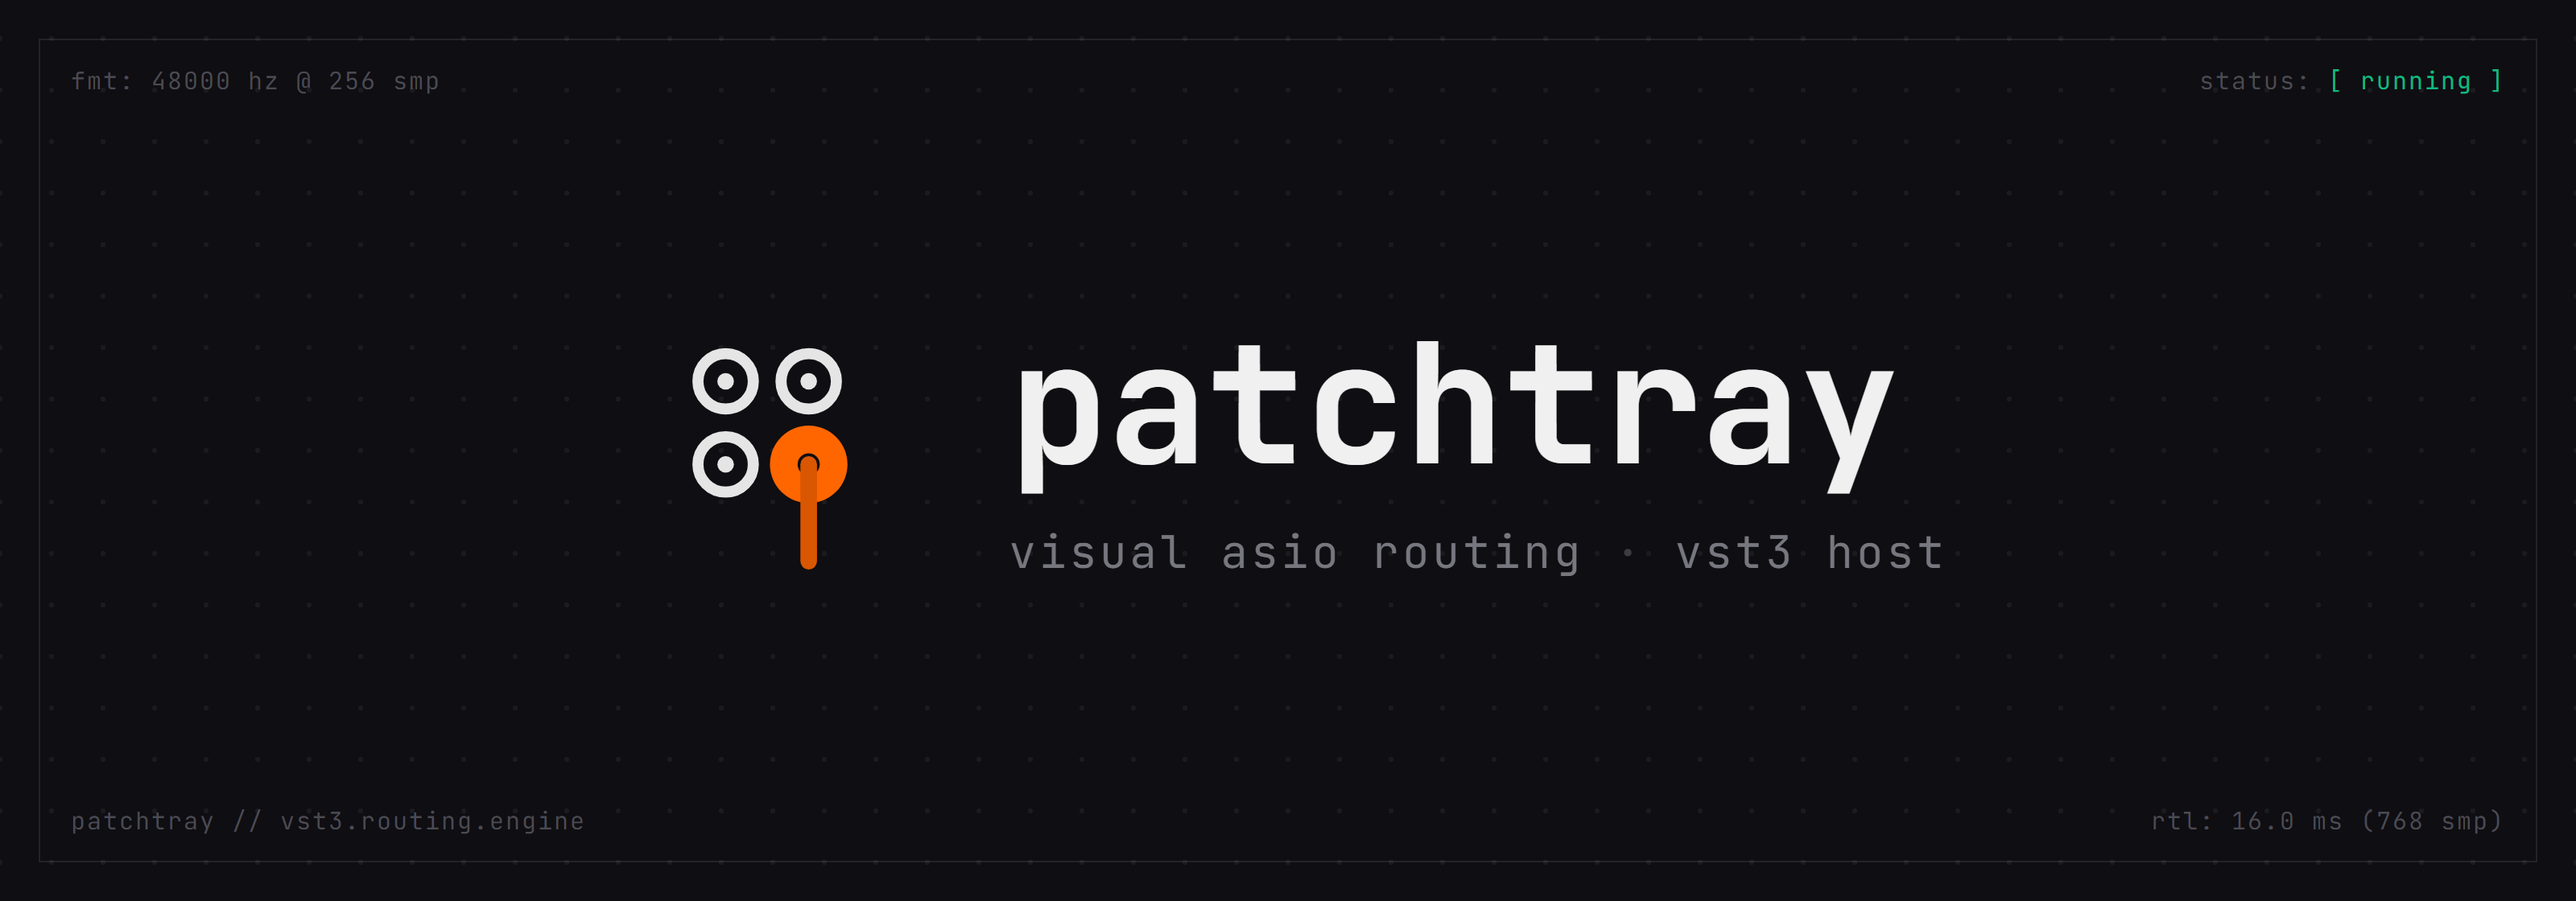
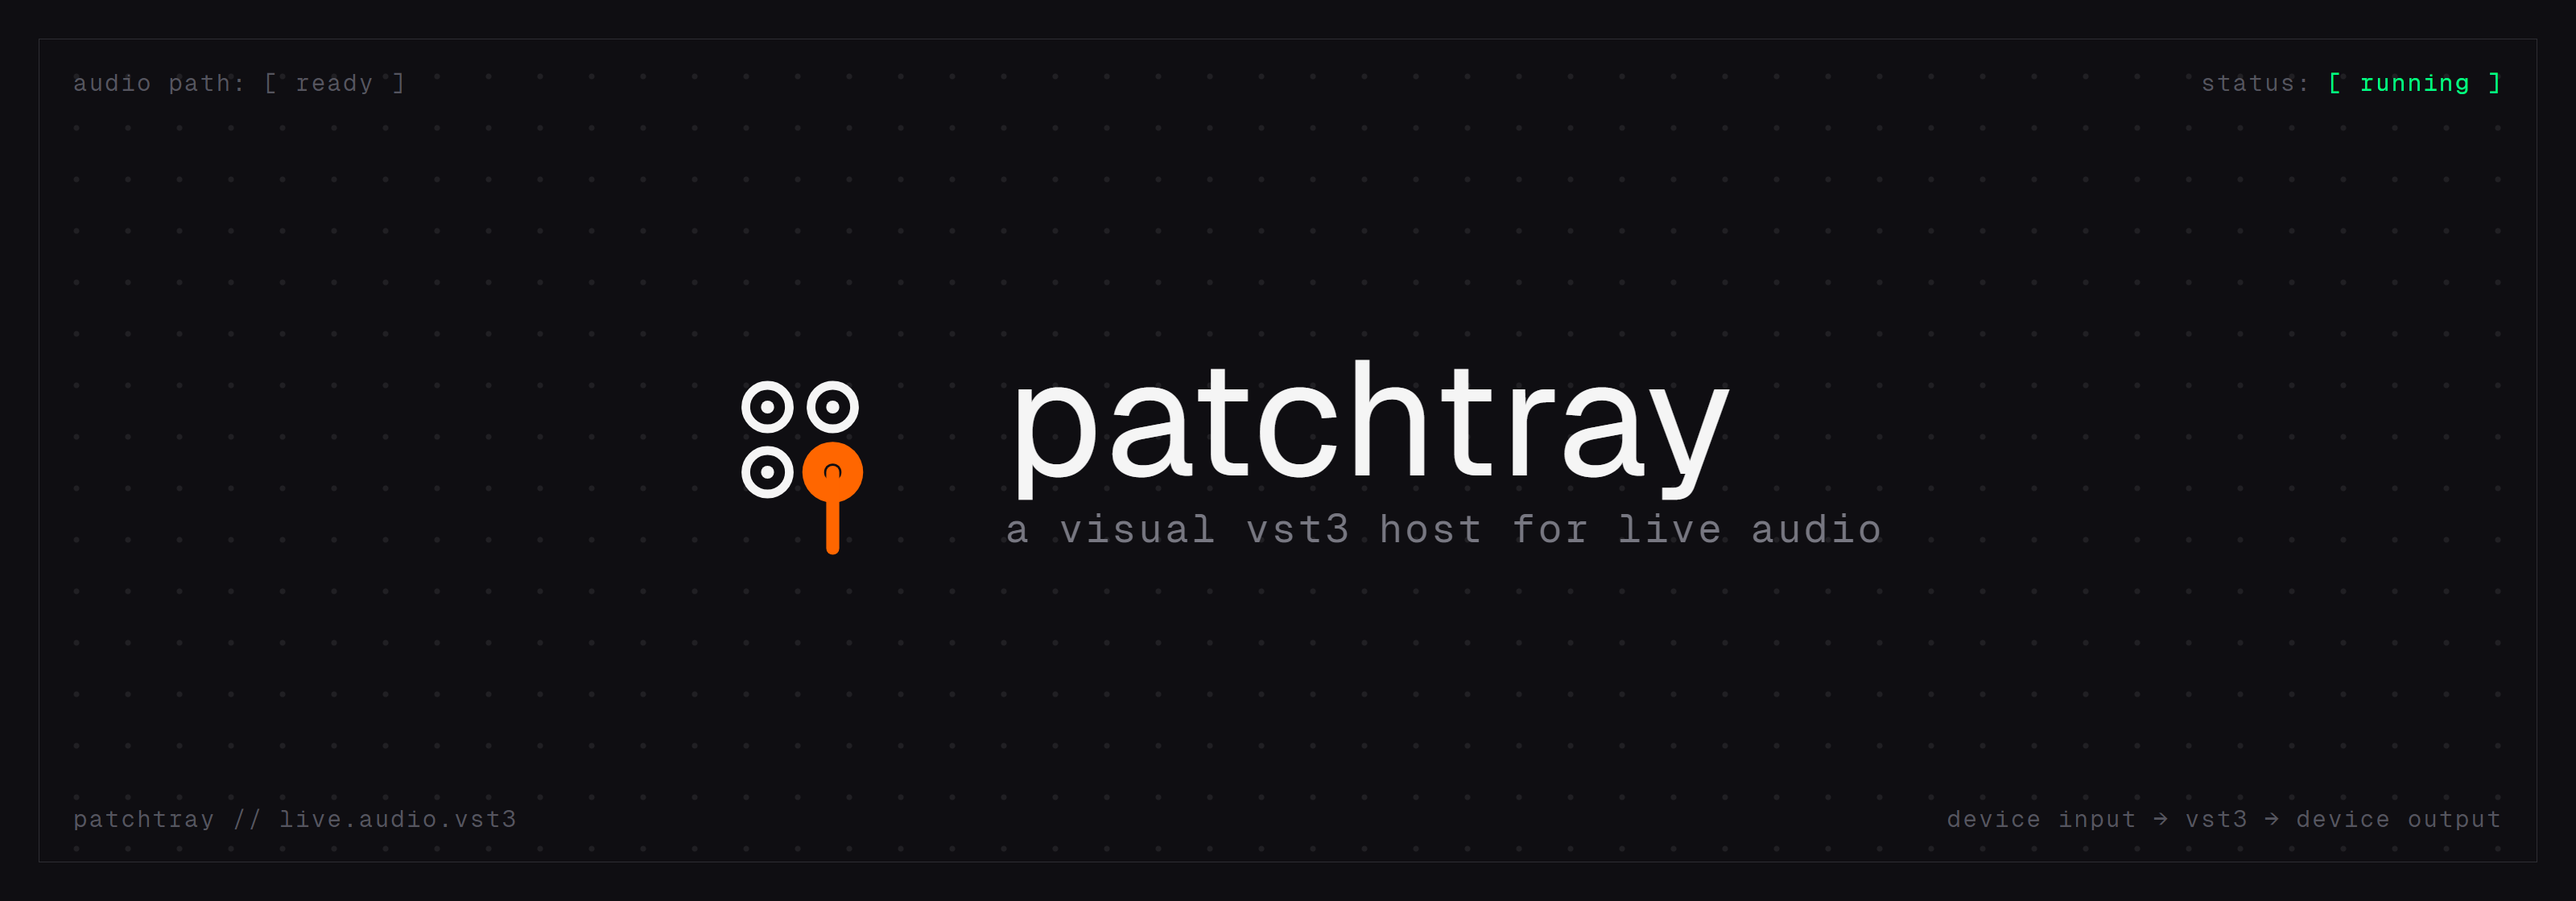
docs: align live-audio positioning

diff --git a/README.md b/README.md
@@ -1,5 +1,5 @@
 <p align="center">
-  <img src="assets/patchtray-banner.png" alt="PatchTray — visual ASIO routing and VST3 hosting" width="760">
+  <img src="assets/patchtray-banner.png" alt="PatchTray — a visual VST3 host for live audio" width="760">
 </p>
 
 <p align="center">
@@ -20,13 +20,13 @@
 
 # PatchTray
 
-PatchTray is a low-latency Windows VST3 host for building visible, real-time ASIO audio routes. Connect an ASIO input, place your plugins on the graph, route them to an ASIO output, and keep the chain running from the system tray.
+PatchTray is a visual VST3 host for live audio. Connect a compatible duplex audio device, place your plugins on the graph, route the processed signal back to selected device channels, and keep the chain running from the system tray. VoiceMeeter Patch Inserts provide an expanded multichannel workflow but are not required.
 
 This is PatchTray's public release and community repository. The application source and service infrastructure are maintained privately; this repository contains downloadable builds, updater metadata, approved media assets, and public issue tracking.
 
 ## What it does
 
-- Routes live audio through a visual ASIO → VST3 → ASIO graph.
+- Routes live audio through a visual device input → VST3 → device output graph.
 - Hosts VST3 effects with native plugin editors and on-node parameter controls.
 - Shows master meters, graph state, and real-time processing telemetry.
 - Saves reusable presets and keeps processing while minimized to the tray.
@@ -34,7 +34,7 @@ This is PatchTray's public release and community repository. The application sou
 - Offers PatchTray Pro with unlimited nodes and presets.
 
 <p align="center">
-  <img src="assets/patchtray-canvas.png" alt="PatchTray canvas routing an ASIO input through a VST3 plugin to an ASIO output" width="900">
+  <img src="assets/patchtray-canvas.png" alt="PatchTray canvas routing a live device input through a VST3 plugin to a device output" width="900">
 </p>
 
 <details>
@@ -44,17 +44,17 @@ This is PatchTray's public release and community repository. The application sou
 
 <img src="assets/patchtray-first-run.png" alt="PatchTray first-launch configuration screen" width="900">
 
-### Guided ASIO setup
+### Guided audio-device setup
 
-<img src="assets/patchtray-setup.png" alt="PatchTray guided setup selecting an ASIO audio driver" width="900">
+<img src="assets/patchtray-setup.png" alt="PatchTray guided setup selecting a compatible audio device" width="900">
 
 ### Interactive routing tutorial
 
 <img src="assets/patchtray-tutorial.png" alt="PatchTray routing canvas with the interactive tutorial coach" width="900">
 
-### ASIO port configuration
+### Device-channel configuration
 
-<img src="assets/patchtray-ports.png" alt="PatchTray ASIO input channel configuration" width="900">
+<img src="assets/patchtray-ports.png" alt="PatchTray input-channel configuration" width="900">
 
 ### License management and recovery
 
@@ -78,10 +78,10 @@ PatchTray is currently distributed as an unsigned public beta. Windows may displ
 ## Requirements
 
 - Windows 10 or Windows 11, 64-bit;
-- an installed ASIO driver and compatible audio path; and
+- a compatible duplex device exposed through ASIO, Windows Audio, or DirectSound; and
 - one or more 64-bit VST3 plugins for processing.
 
-PatchTray is commonly used with Voicemeeter ASIO insert routing, but other suitable ASIO configurations can work.
+VoiceMeeter Patch Inserts are supported when a larger multichannel routing surface is useful, but PatchTray can also work directly with compatible hardware and virtual audio devices.
 
 ## Issues and feature requests
 

diff --git a/CONTRIBUTING.md b/CONTRIBUTING.md
@@ -6,12 +6,12 @@ Thank you for helping improve PatchTray. This public repository is used for rele
 
 1. Update to the newest PatchTray release.
 2. Search open and closed issues for the same behavior or request.
-3. Confirm whether the problem still occurs after restarting PatchTray and the ASIO host or mixer.
+3. Confirm whether the problem still occurs after restarting PatchTray and the selected audio device, driver, or mixer.
 4. Use the matching bug or feature issue form and complete every required field.
 
 ## Writing a useful bug report
 
-Include the smallest repeatable sequence that triggers the problem, what you expected, and what happened instead. Environment details such as the PatchTray version, Windows version, ASIO driver, audio interface or mixer, and affected VST3 plugin are especially helpful.
+Include the smallest repeatable sequence that triggers the problem, what you expected, and what happened instead. Environment details such as the PatchTray version, Windows version, audio backend and driver, interface or mixer, and affected VST3 plugin are especially helpful.
 
 Screenshots and short screen recordings are welcome when they do not reveal private information. Trim logs to the relevant section.
 

diff --git a/assets/README.md b/assets/README.md
@@ -9,10 +9,10 @@ This directory contains the approved public media kit for PatchTray.
 | `patchtray-banner.png` | Repository README header banner |
 | `patchtray-pro-banner.png` | PatchTray Pro marketing artwork |
 | `patchtray-first-run.png` | First-launch configuration screen |
-| `patchtray-setup.png` | Guided ASIO driver setup |
+| `patchtray-setup.png` | Guided audio-device setup |
 | `patchtray-tutorial.png` | Interactive routing tutorial |
-| `patchtray-canvas.png` | Active ASIO → VST3 → ASIO routing canvas |
-| `patchtray-ports.png` | ASIO input channel configuration |
+| `patchtray-canvas.png` | Active device input → VST3 → device output routing canvas |
+| `patchtray-ports.png` | Device input-channel configuration |
 | `patchtray-license.png` | Pro license status and recovery controls |
 
 ## Usage
